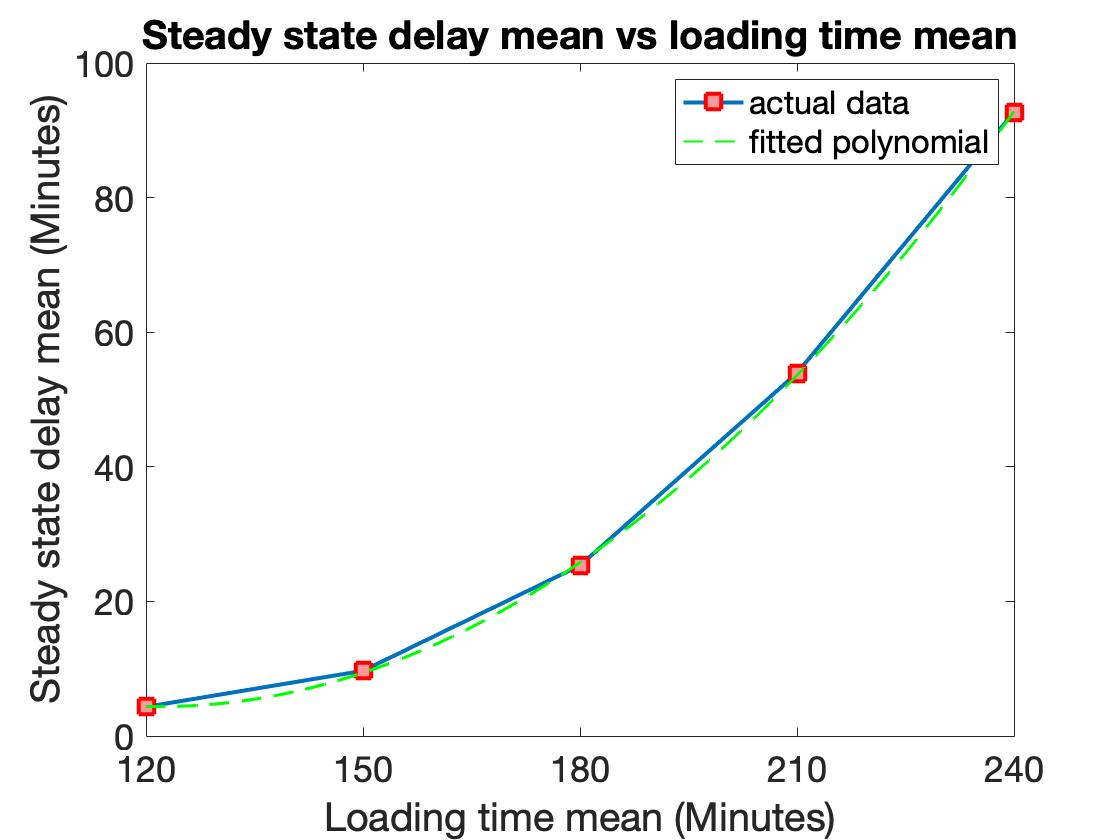
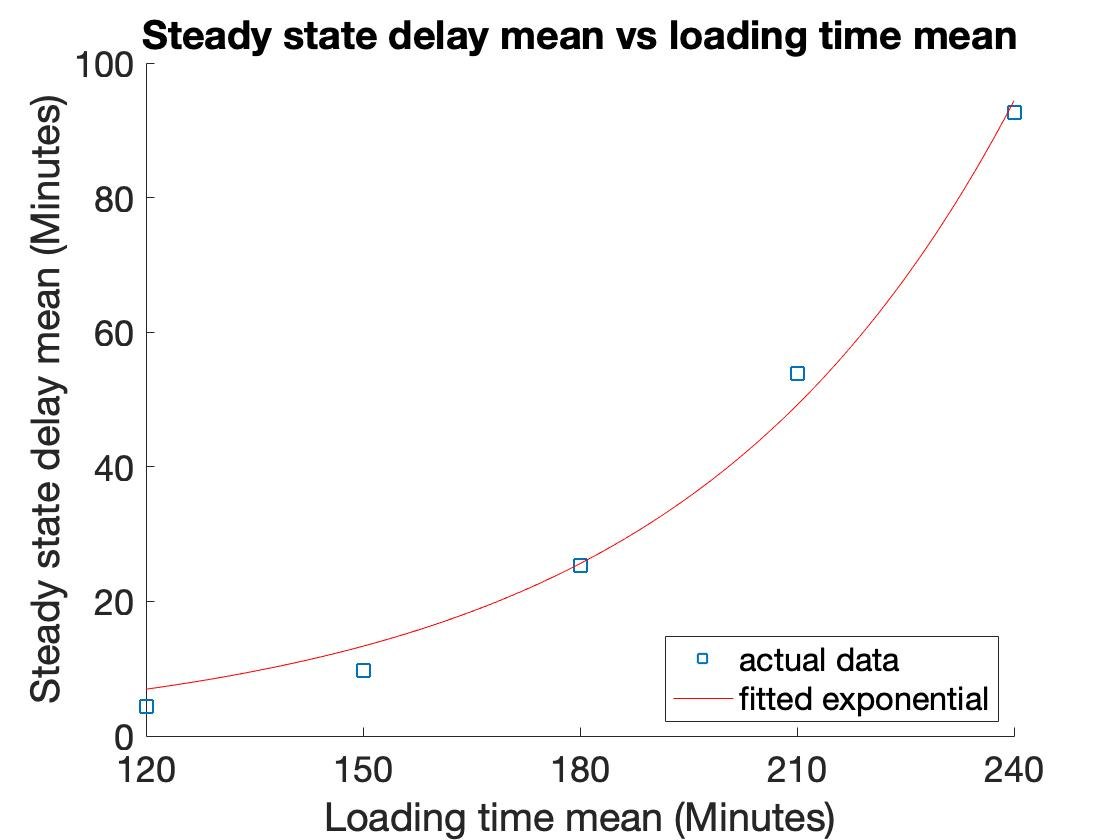
modify scripts

Changed region(s): [[0.5938, 0.0929, 0.9375, 0.5571], [0.125, 0.5571, 0.625, 0.8667], [0.625, 0.7738, 0.9062, 0.8667]]

diff --git a/results/scripts/sensitivity_analysis_script.m b/results/scripts/sensitivity_analysis_script.m
@@ -3,14 +3,12 @@
 figure();
 t = [45 67.5 90 112.5 135];
 avg_delay_time = [4.3270 8.4500 11.0188 19.3182 35.0194];
-plot(t, avg_delay_time, '-s','LineWidth',2, 'MarkerSize',10,...
-    'MarkerEdgeColor','red',...
-    'MarkerFaceColor',[1 .6 .6]); hold on;
-p = polyfit(t,avg_delay_time,2);
-t1 = 45:0.1:135;
-y1 = polyval(p,t1);
-plot(t1, y1 ,'--g','LineWidth',1); 
-set(gca, 'FontSize',18); legend('actual data', 'fitted polynomial');
+f1 = fit(t', avg_delay_time', 'exp1'); 
+scatter(t,avg_delay_time,70,'s'); hold on;
+plot(f1);
+
+set(gca, 'FontSize',18); xlim([30,150]);
+legend('actual data', 'fitted exponential','Location','southeast');
 xticks(t);
 ylabel('Steady state delay mean (Minutes)'); 
 xlabel('Berthing time mean (Minutes)');
@@ -20,15 +18,12 @@ title('Steady state delay mean vs berthing time mean');
 figure();
 t = [120 150 180 210 240];
 avg_delay_time = [4.3270 9.6910 25.3338 53.9302 92.6978];
-plot(t, avg_delay_time, '-s','LineWidth',2, 'MarkerSize',10,...
-    'MarkerEdgeColor','red',...
-    'MarkerFaceColor',[1 .6 .6]); hold on;
-p = polyfit(t,avg_delay_time,2);
-t2 = 120:0.1:240;
-y2 = polyval(p,t2);
-plot(t2, y2 ,'--g','LineWidth',1); 
-set(gca, 'FontSize',18); legend('actual data', 'fitted polynomial');
-xticks([120 150 180 210 240]);
+f2 = fit(t', avg_delay_time', 'exp1'); 
+scatter(t,avg_delay_time,70,'s'); hold on;
+plot(f2);
+set(gca, 'FontSize',18); 
+legend('actual data', 'fitted exponential','Location','southeast');
+xticks(t);
 ylabel('Steady state delay mean (Minutes)'); 
 xlabel('Loading time mean (Minutes)');
 title('Steady state delay mean vs loading time mean');
